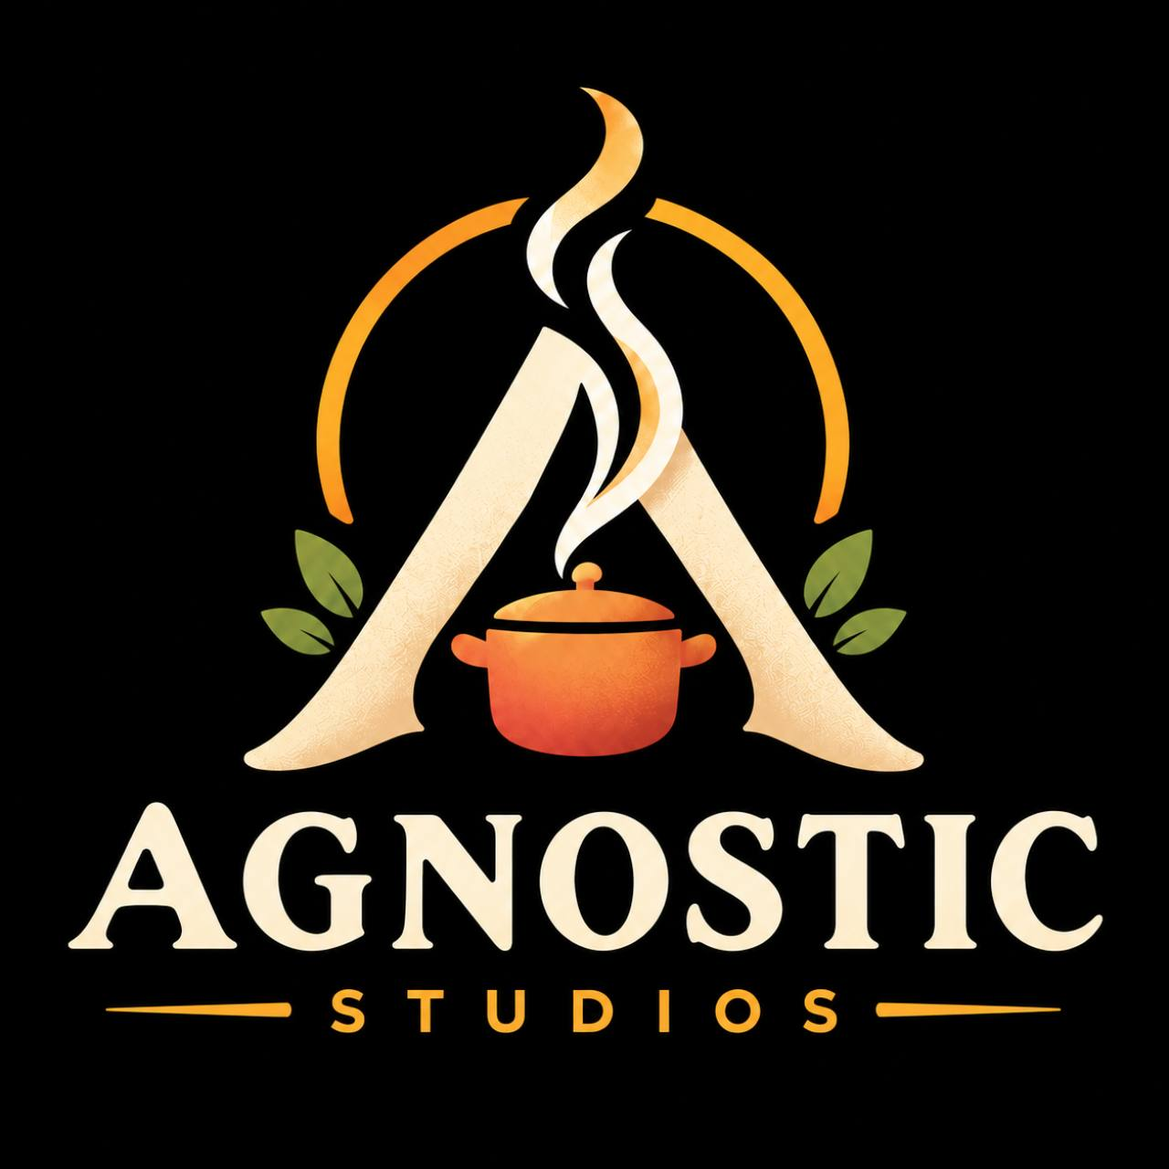
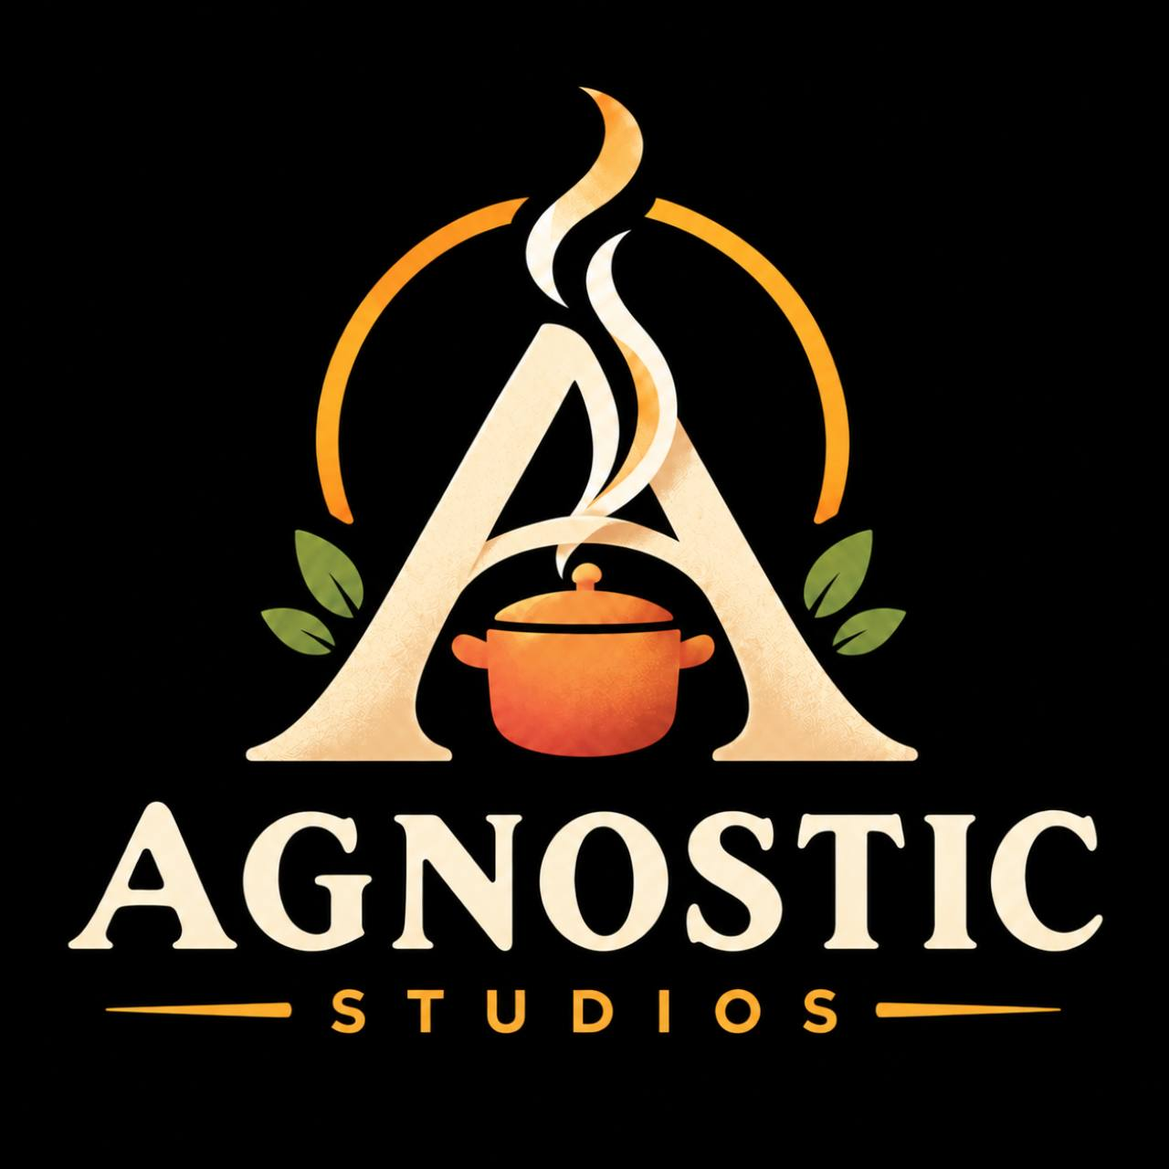
Let seated customers finish after closing and reuse cleared tables promptly

diff --git a/Assets/Tests/PlayMode/RestaurantDayTests.cs b/Assets/Tests/PlayMode/RestaurantDayTests.cs
@@ -40,6 +40,74 @@ namespace ThrownTogether.Tests
             var fryer=stations.OfType<ProcessingStation>().Single(s=>!s.requiresAttendance);Use(fryer);fryer.Advance(5);Use(fryer);
             var counter=stations.OfType<CounterStation>().First(s=>s.GetType()==typeof(CounterStation));Use(counter);Use(stations.OfType<SourceStation>().Single(s=>s.plates));Use(counter);Use(counter);return chef.Hands.Item;
         }
+
+        void FinishDay()
+        {
+            for(int i=0;i<8000 && !day.Closed;i++)
+            {
+                foreach(var table in day.Tables)table.order.Advance(.1f);
+                day.Advance(.1f);
+            }
+            Assert.That(day.Closed,Is.True,"Service should settle once the final guest reaches the street exit");
+            Assert.That(day.CustomersRemaining,Is.Zero);
+        }
+        [UnityTest] public IEnumerator ClosingKeepsExistingOrdersPlayableUntilTheLastStreetDeparture()
+        {
+            var originalSettings=day.Settings;
+            float duration=originalSettings.durationSeconds;
+            try
+            {
+                day.Advance(18);var table=day.Tables.First(t=>t.WaitingForMeal);
+                originalSettings.durationSeconds=day.Elapsed+1;
+                int arrived=day.CustomersArrived;day.Advance(2);
+                Assert.That(day.AdmissionsClosed,Is.True);Assert.That(day.Closed,Is.False);Assert.That(day.Paid,Is.False);
+                var dish=CookDish(table.order.recipe);Use(table);
+                Assert.That(day.Served,Is.EqualTo(1),"A matching meal must still be accepted after closing");
+                Assert.That(table.order.tableSlot.Item,Is.SameAs(dish));
+                day.Advance(3);Assert.That(day.Closed,Is.False,"An eating customer prevents settlement");
+                table.order.Advance(day.Settings.eatingSeconds);
+                day.Advance(2);
+                Assert.That(table.Occupied,Is.False);Assert.That(day.CustomersRemaining,Is.GreaterThan(0));
+                Assert.That(day.Closed,Is.False,"Walking out of the dining room is not the end of the day");
+                FinishDay();Assert.That(day.Paid,Is.True);Assert.That(day.CustomersArrived,Is.EqualTo(arrived));
+                int cash=RestaurantAccounts.Current.Data.cash;day.Advance(100);day.RetryPayment();
+                Assert.That(RestaurantAccounts.Current.Data.cash,Is.EqualTo(cash));
+            }
+            finally{originalSettings.durationSeconds=duration;}
+            yield return null;LogAssert.NoUnexpectedReceived();
+        }
+        [UnityTest] public IEnumerator ClearedSeatIsReusedBeforePreviousGuestReachesTheDoor()
+        {
+            day.Advance(60);Assert.That(day.WaitingOutside,Is.GreaterThan(0));
+            var table=day.Tables.First(t=>t.WaitingForMeal);
+            var dish=CookDish(table.order.recipe);Use(table);table.order.Advance(day.Settings.eatingSeconds);
+            day.Advance(.1f);Assert.That(table.Leaving,Is.True);
+            Use(table);Assert.That(chef.Hands.Item,Is.SameAs(dish));
+            var departing=day.GetComponentsInChildren<DiningWalker>().First(w=>w.gameObject.activeSelf && Vector3.Distance(w.transform.position,table.transform.position)<3);
+            for(int i=0;i<40 && !table.Arriving;i++)day.Advance(.1f);
+            Assert.That(table.Arriving,Is.True,"Queue should reserve the cleared seat immediately after its former diner reaches the aisle");
+            Assert.That(departing.transform.position.z,Is.GreaterThan(day.Settings.entrance.z+1),"Former diner is still inside");
+            day.Advance(12);Assert.That(table.WaitingForMeal,Is.True,"Former diner leaving must not reset the replacement order");
+            Assert.That(table.order.recipe,Is.Not.Null);yield return null;LogAssert.NoUnexpectedReceived();
+        }
+        [UnityTest] public IEnumerator ClosingTurnsAwayUnseatedArrivalsAndFirstDayStartsAtTen()
+        {
+            Assert.That(day.TargetCustomers,Is.EqualTo(10));
+            Assert.That(day.Settings.CustomersForDay(2),Is.EqualTo(12));
+            float duration=day.Settings.durationSeconds;
+            try
+            {
+                day.Advance(2);Assert.That(day.CustomersRemaining,Is.EqualTo(1));
+                day.Settings.durationSeconds=day.Elapsed+1;day.Advance(2);
+                Assert.That(day.AdmissionsClosed,Is.True);Assert.That(day.Tables.All(t=>t.Clean),Is.True);
+                Assert.That(day.Closed,Is.False);FinishDay();
+                Assert.That(day.CustomersArrived,Is.EqualTo(1));Assert.That(day.Served,Is.Zero);
+                Assert.That(day.LostCustomers,Is.Zero,"Closing the door is not a patience penalty");
+            }
+            finally{day.Settings.durationSeconds=duration;}
+            yield return null;
+        }
+
         void WalkTo(float x,float z)
         {
             var target=new Vector3(x,0,z);
@@ -58,8 +126,8 @@ namespace ThrownTogether.Tests
             var sun=Object.FindObjectsByType<Light>().First(l=>l.gameObject.scene==scene && l.type==LightType.Directional);
             float intensity=sun.intensity;var color=sun.color;
             day.Advance(18);CookFirstDish();Use(day.Tables.First(t=>t.WaitingForMeal));Assert.That(day.Served,Is.EqualTo(1));
-            CaptureTransition(hud,"service");day.Advance(300);presentation.AdvancePresentation(0);
-            Assert.That(day.Clock,Is.EqualTo("10:00 PM"));Assert.That(day.Paid,Is.True);
+            CaptureTransition(hud,"service");FinishDay();presentation.AdvancePresentation(0);
+            Assert.That(day.AdmissionsClosed,Is.True);Assert.That(day.Paid,Is.True);
             Assert.That(presentation.Current,Is.EqualTo(DayPresentation.Phase.Closing));Assert.That(Time.timeScale,Is.Zero);
             presentation.AdvancePresentation(1.25f);
             Assert.That(hud.gameplayCamera.orthographicSize,Is.EqualTo(size*1.0625f).Within(.001f));
@@ -149,13 +217,13 @@ namespace ThrownTogether.Tests
             Use(stations.OfType<DishReturnStation>().Single());Use(stations.OfType<DishReturnStation>().Single());
             var sink=stations.OfType<WashingStation>().Single();Use(sink);sink.Advance(3);Use(sink);Use(stations.OfType<SourceStation>().Single(s=>s.plates));
             Assert.That(stations.OfType<SourceStation>().Single(s=>s.plates).CleanPlatesRemaining,Is.EqualTo(5));
-            day.Advance(300);Assert.That(day.Clock,Is.EqualTo("10:00 PM"));Assert.That(day.Paid,Is.True);int cash=RestaurantAccounts.Current.Data.cash;day.Advance(300);day.RetryPayment();Assert.That(RestaurantAccounts.Current.Data.cash,Is.EqualTo(cash));
+            FinishDay();Assert.That(day.AdmissionsClosed,Is.True);Assert.That(day.Paid,Is.True);int cash=RestaurantAccounts.Current.Data.cash;day.Advance(300);day.RetryPayment();Assert.That(RestaurantAccounts.Current.Data.cash,Is.EqualTo(cash));
             LogAssert.NoUnexpectedReceived();yield return null;
         }
         [UnityTest] public IEnumerator UnservedGuestsAndOutsideQueueEventuallyLeave()
         {
             day.Advance(150);Assert.That(day.LostCustomers,Is.GreaterThan(0));Assert.That(day.Served,Is.Zero);
-            day.Advance(150);Assert.That(day.Closed,Is.True);Assert.That(RestaurantAccounts.Current.Data.cash,Is.Zero);Assert.That(day.WaitingOutside,Is.LessThanOrEqualTo(3));yield return null;
+            FinishDay();Assert.That(day.Closed,Is.True);Assert.That(RestaurantAccounts.Current.Data.cash,Is.Zero);Assert.That(day.WaitingOutside,Is.LessThanOrEqualTo(3));yield return null;
         }
         [UnityTest] public IEnumerator ServerChainsQueuedMealsWithoutReturningHome()
         {
@@ -234,7 +302,7 @@ namespace ThrownTogether.Tests
             Assert.That(day.DayNumber,Is.EqualTo(2));Assert.That(account.Data.cash,Is.EqualTo(470));
             Assert.That(day.GetComponent<DiningServer>(),Is.Not.Null);
             Assert.That(day.GetComponent<KitchenDishwasher>(),Is.Not.Null);
-            Assert.That(day.GetComponent<DiningBusser>(),Is.Not.Null);Assert.That(day.Tables.Length,Is.EqualTo(4));Assert.That(day.TargetCustomers,Is.EqualTo(14));
+            Assert.That(day.GetComponent<DiningBusser>(),Is.Not.Null);Assert.That(day.Tables.Length,Is.EqualTo(4));Assert.That(day.TargetCustomers,Is.EqualTo(12));
             foreach(var table in day.Tables)
             {var approach=day.TableApproach(table);Assert.That(KitchenStaffRoute.Clear(approach),Is.True);var path=day.DiningRoute(new Vector3(day.Settings.diningAisleX,0,1),approach);
                 var previous=new Vector3(day.Settings.diningAisleX,0,1);foreach(var point in path){for(float t=0;t<=1;t+=.02f)Assert.That(KitchenStaffRoute.Clear(Vector3.Lerp(previous,point,t)),Is.True,"Staff dining corridor");previous=point;}}
@@ -252,7 +320,7 @@ namespace ThrownTogether.Tests
             Assert.That(chef.Hands.Item,Is.SameAs(plate));Assert.That(plate.Payload.dirty,Is.True);Assert.That(plate.Payload.IngredientCount,Is.Zero);Assert.That(day.WasteFees,Is.EqualTo(2));
             Assert.That(bin.Interact(chef),Is.False);Assert.That(day.WasteFees,Is.EqualTo(2));
             var sink=stations.OfType<WashingStation>().Single();Use(sink);sink.Advance(3);Use(sink);Assert.That(chef.Hands.Item,Is.SameAs(plate));Assert.That(bin.Interact(chef),Is.False);Use(stock);Assert.That(stock.CleanPlatesRemaining,Is.EqualTo(5));
-            day.RecordMeal(day.GetComponent<RestaurantShift>().definition.orders[0],0);int expected=day.BaseIncome+day.Bonuses-2;day.Advance(300);Assert.That(RestaurantAccounts.Current.Data.cash,Is.EqualTo(expected));day.RetryPayment();Assert.That(RestaurantAccounts.Current.Data.cash,Is.EqualTo(expected));
+            day.RecordMeal(day.GetComponent<RestaurantShift>().definition.orders[0],0);int expected=day.BaseIncome+day.Bonuses-2;FinishDay();Assert.That(RestaurantAccounts.Current.Data.cash,Is.EqualTo(expected));day.RetryPayment();Assert.That(RestaurantAccounts.Current.Data.cash,Is.EqualTo(expected));
             Use(potato);Assert.That(bin.Interact(chef),Is.False,"No uncharged disposal after settlement");yield return null;LogAssert.NoUnexpectedReceived();
         }
         [UnityTest] public IEnumerator DiningStaffIdleRightOfEntranceAndFetchWithoutTeleporting()

diff --git a/Assets/Scripts/RestaurantDay.cs b/Assets/Scripts/RestaurantDay.cs
@@ -9,6 +9,9 @@ namespace ThrownTogether
         public DiningTable[] Tables {get;private set;}
         public float Elapsed {get;private set;}
         public bool Closed {get;private set;}
+        public bool AdmissionsClosed=>Elapsed>=Settings.durationSeconds;
+        public int CustomersRemaining=>guests.Count;
+        public int CustomersArrived=>spawned;
         public bool Paid {get;private set;}
         public int Served {get;private set;}
         public int BaseIncome {get;private set;}
@@ -35,7 +38,7 @@ namespace ThrownTogether
         public int TargetCustomers=>Settings.CustomersForDay(ServiceDayNumber);
         public int WaitingOutside=>guests.Count(g=>g.phase==0);
         public float OldestWait=>guests.Where(g=>g.phase==0).Select(g=>Elapsed-g.arrived).DefaultIfEmpty(0).Max();
-        public string Clock {get {int m=660+Mathf.FloorToInt(Mathf.Clamp01(Elapsed/Settings.durationSeconds)*660);return ((m/60+11)%12+1)+":"+(m%60).ToString("00")+(m<720?" AM":" PM");}}
+        public string Clock {get {int m=660+Mathf.FloorToInt(Mathf.Max(0,Elapsed/Settings.durationSeconds)*660);return ((m/60+11)%12+1)+":"+(m%60).ToString("00")+(m%1440<720?" AM":" PM");}}
         readonly List<Guest> guests=new List<Guest>();
         sealed class Guest {public DiningWalker walker;public DiningTable table;public RecipeDefinition recipe;public float arrived;public int phase,look;}
         RestaurantShift shift;int spawned;float nextArrival;DiningServer server;KitchenDishwasher dishwasher;DiningBusser busser;
@@ -102,11 +105,15 @@ namespace ThrownTogether
         }
         void Tick(float dt)
         {
-            Elapsed=Mathf.Min(Settings.durationSeconds,Elapsed+dt);
-            if(Elapsed>=Settings.durationSeconds){Closed=true;RetryPayment();return;}
-            while(spawned<TargetCustomers && Elapsed>=nextArrival){Spawn();nextArrival+=Settings.IntervalForDay(ServiceDayNumber);}
+            Elapsed+=dt;
+            while(!AdmissionsClosed && spawned<TargetCustomers && Elapsed>=nextArrival){Spawn();nextArrival+=Settings.IntervalForDay(ServiceDayNumber);}
             foreach(var guest in guests.ToArray())
             {
+                // Guests already admitted may finish; unseated arrivals go home at closing.
+                if(AdmissionsClosed && (guest.phase==0 || guest.phase==4))
+                {
+                    guest.phase=5;guest.walker.Go(new Vector3(guest.walker.transform.position.x,0,Settings.sidewalkExit.z),Settings.sidewalkExit);
+                }
                 if(guest.phase==0)
                 {
                     var table=Tables.FirstOrDefault(t=>t.Clean);
@@ -118,25 +125,33 @@ namespace ThrownTogether
                     else if(Elapsed-guest.arrived>=Settings.outsidePatience)
                     {LostCustomers++;LastLostAt=Elapsed;guest.phase=5;guest.walker.name="Customer left â€” waited too long";guest.walker.Go(new Vector3(Settings.entrance.x,0,Settings.sidewalkExit.z),Settings.sidewalkExit);}
                 }
-                if(guest.phase==1 || guest.phase==3 || guest.phase==4 || guest.phase==5)
+                if(guest.phase==1 || guest.phase==3 || guest.phase==4 || guest.phase==5 || guest.phase==6)
                 {
                     guest.walker.Advance(dt,Settings.walkingSpeed);
                     if(guest.walker.Arrived)
                     {
                         if(guest.phase==1){guest.phase=2;guest.walker.gameObject.SetActive(false);guest.table.Seat(guest.recipe,guest.look);}
                         else if(guest.phase==4){guest.phase=0;guest.arrived=Elapsed;}
-                        else if(guest.phase==3){guest.table.Depart();guest.phase=5;guest.walker.Go(new Vector3(Settings.entrance.x,0,Settings.sidewalkExit.z),Settings.sidewalkExit);}
+                        else if(guest.phase==6)
+                        {
+                            // Release the seat at the aisle, not at the front door. Detach ownership
+                            // so this guest can never reset the next diner's order while walking out.
+                            guest.table.Depart();guest.table=null;guest.phase=3;
+                            guest.walker.Go(new Vector3(guest.walker.transform.position.x,0,-5),new Vector3(Settings.entrance.x,0,-5),Settings.entrance);
+                        }
+                        else if(guest.phase==3){guest.phase=5;guest.walker.Go(new Vector3(Settings.entrance.x,0,Settings.sidewalkExit.z),Settings.sidewalkExit);}
                         else{guests.Remove(guest);Destroy(guest.walker.gameObject);}
                     }
                 }
                 else if(guest.phase==2 && (guest.table.order.Phase==OrderPhase.Dirty || guest.table.WaitingForMeal && guest.table.PatienceRemaining<=0))
                 {
                     if(guest.table.WaitingForMeal){LostCustomers++;LastLostAt=Elapsed;guest.walker.name="Customer left â€” not served";}
-                    guest.phase=3;guest.table.BeginDeparture();guest.walker.gameObject.SetActive(true);
-                    guest.walker.Go(new Vector3(TableApproach(guest.table).x,0,guest.walker.transform.position.z),new Vector3(TableApproach(guest.table).x,0,-5),new Vector3(Settings.entrance.x,0,-5),Settings.entrance);
+                    guest.phase=6;guest.table.BeginDeparture();guest.walker.gameObject.SetActive(true);
+                    guest.walker.Go(new Vector3(TableApproach(guest.table).x,0,guest.walker.transform.position.z));
                 }
             }
             server?.Advance(dt);dishwasher?.Advance(dt);busser?.Advance(dt);
+            if(AdmissionsClosed && guests.Count==0){Closed=true;RetryPayment();}
         }
         public void RecordMeal(RecipeDefinition recipe,float waiting)
         {

diff --git a/Assets/Scripts/RestaurantMenu.cs b/Assets/Scripts/RestaurantMenu.cs
@@ -435,7 +435,7 @@ namespace ThrownTogether
             var style=buttonStyle; style.fontSize=Mathf.RoundToInt(21*Display.TextScale); var text=textStyle;
             text.normal.textColor=Color.white; style.normal.textColor=Color.white; style.hover.textColor=Color.white; style.active.textColor=Color.white;
             GUI.Label(new Rect(260,25,760,48),Page=="Title" ? "THROWN TOGETHER" : Page=="Main" ? "PAUSED" : Page=="Levels" ? (practiceLevel ? "CHOOSE A PRACTICE KITCHEN":"CHOOSE YOUR LEVEL") : Page=="Recipes" ? "RECIPE BOOK" : Page=="Restaurant" ? (hud.shift?.Day?.Closed==true?"DAY "+hud.shift.Day.DayNumber+" COMPLETE":"RESTAURANT SETUP") : Page=="Shop" ? "APPLIANCES, COUNTERS & DISHES" : Page=="Today's Menu" ? "DAY "+RestaurantAccounts.Current.Data.nextDay+" — CHOOSE MENU" : Page.ToUpperInvariant(),text);
-            GUI.Label(Page=="Restaurant"?new Rect(180,73,920,60):new Rect(260,73,760,60),Page=="Reset career" ? "Erase all career days, money, purchases, hires, menu choices and saved kitchen layouts? Settings and chef appearance stay." : Page=="Confirm" ? confirmation : Page=="Today's Menu" ? DailyMenu.Resolve(RestaurantAccounts.Current).Length+" selected • Minimum 3 • A: toggle dish\nServe 4 different menu dishes: +5% meal revenue (max $15)" : Page=="Restaurant" && hud.shift?.Day?.Closed==true ? "10:00 PM • "+hud.shift.Day.Served+" served / "+hud.shift.Day.LostCustomers+" lost • Earned $"+hud.shift.Day.NetIncome+" (speed $"+hud.shift.Day.Bonuses+", variety $"+hud.shift.Day.VarietyBonus+", waste $"+hud.shift.Day.WasteFees+")\nAvailable $"+RestaurantAccounts.Current.Data.cash+" • B returns here" : IsFrontEnd ? "D-pad / stick: navigate • A: select • B: back\nChoose a kitchen and start cooking." : BetweenDays?"Available $"+RestaurantAccounts.Current.Data.cash+" • D-pad: navigate • A: select • B: Day Complete":"Paused • D-pad / stick: navigate • A: select • B: back\nY / Escape: close • Xbox Menu belongs to Edge",text);
+            GUI.Label(Page=="Restaurant"?new Rect(180,73,920,60):new Rect(260,73,760,60),Page=="Reset career" ? "Erase all career days, money, purchases, hires, menu choices and saved kitchen layouts? Settings and chef appearance stay." : Page=="Confirm" ? confirmation : Page=="Today's Menu" ? DailyMenu.Resolve(RestaurantAccounts.Current).Length+" selected • Minimum 3 • A: toggle dish\nServe 4 different menu dishes: +5% meal revenue (max $15)" : Page=="Restaurant" && hud.shift?.Day?.Closed==true ? hud.shift.Day.Clock+" • "+hud.shift.Day.Served+" served / "+hud.shift.Day.LostCustomers+" lost • Earned $"+hud.shift.Day.NetIncome+" (speed $"+hud.shift.Day.Bonuses+", variety $"+hud.shift.Day.VarietyBonus+", waste $"+hud.shift.Day.WasteFees+")\nAvailable $"+RestaurantAccounts.Current.Data.cash+" • B returns here" : IsFrontEnd ? "D-pad / stick: navigate • A: select • B: back\nChoose a kitchen and start cooking." : BetweenDays?"Available $"+RestaurantAccounts.Current.Data.cash+" • D-pad: navigate • A: select • B: Day Complete":"Paused • D-pad / stick: navigate • A: select • B: back\nY / Escape: close • Xbox Menu belongs to Edge",text);
             int visible=Page=="Recipes"?6:Page=="Shop"?7:(Page=="Restaurant" || Page=="Today's Menu")?8:9;
             bool menu=Page=="Today's Menu";
             int begin=menu?1:0, end=menu?rows.Count-1:rows.Count;

diff --git a/Assets/Tests/PlayMode/MenuExpansionTests.cs b/Assets/Tests/PlayMode/MenuExpansionTests.cs
@@ -55,7 +55,7 @@ namespace ThrownTogether.Tests
             BaseMenu();Assert.That(menu.StartSelectedMenu(),Is.True);yield return null;yield return null;
             Assert.That(day.AwaitingMenu,Is.False);Assert.That(day.Menu.Length,Is.EqualTo(3));
             day.Advance(18);Assert.That(day.Tables.Where(t=>t.order.Active).All(t=>day.Menu.Contains(t.order.recipe)),Is.True);
-            foreach(var r in day.Menu)day.RecordMeal(r,0);day.Advance(300);Assert.That(day.VarietyBonus,Is.Zero);Assert.That(day.Paid,Is.True);
+            foreach(var r in day.Menu)day.RecordMeal(r,0);day.Advance(600);Assert.That(day.VarietyBonus,Is.Zero);Assert.That(day.Paid,Is.True);
             var a=RestaurantAccounts.Current;int funding=a.StartDay();Assert.That(a.Settle(funding,300,0),Is.True);
             var offer=day.Settings.purchases.Single(p=>p.id=="grill");Assert.That(a.Buy(offer.id,offer.cost),Is.True);
             var chosen=DailyMenu.Catalog.Where(r=>r.Unlocked(a)).Take(4).ToArray();Assert.That(a.SetMenu(chosen.Select(r=>r.id).ToArray()),Is.True);
@@ -66,7 +66,7 @@ namespace ThrownTogether.Tests
             Assert.That(RestaurantAccounts.Current.SetMenu(new string[0]),Is.True);
             for(int i=0;i<8;i++){day.Advance(8);Assert.That(day.Tables.Where(t=>t.order.Active).All(t=>chosen.Contains(t.order.recipe)),Is.True);}
             foreach(var r in chosen)day.RecordMeal(r,0);int income=day.BaseIncome,bonus=day.Bonuses,cash=RestaurantAccounts.Current.Data.cash;
-            day.Advance(300);Assert.That(day.VarietyBonus,Is.EqualTo(income/20));Assert.That(RestaurantAccounts.Current.Data.cash,Is.EqualTo(cash+income+bonus+income/20));
+            day.Advance(600);Assert.That(day.VarietyBonus,Is.EqualTo(income/20));Assert.That(RestaurantAccounts.Current.Data.cash,Is.EqualTo(cash+income+bonus+income/20));
             day.RetryPayment();Assert.That(RestaurantAccounts.Current.Data.cash,Is.EqualTo(cash+income+bonus+income/20));LogAssert.NoUnexpectedReceived();
         }
         [UnityTest] public IEnumerator AllThirteenRecipesCookPlateAndServeWithRealStationsAndFinitePlates()

diff --git a/Assets/Scripts/RestaurantHud.cs b/Assets/Scripts/RestaurantHud.cs
@@ -61,7 +61,7 @@ namespace ThrownTogether
             if(day!=null)
             {
                 Panel(new Rect(340,12,690,48));
-                GUI.Label(new Rect(350,15,670,42),"Day "+day.ServiceDayNumber+" | Bank $"+RestaurantAccounts.Current.Data.cash+" | Today $"+day.NetIncome+" | Outside "+day.WaitingOutside+" ("+Mathf.CeilToInt(Mathf.Max(0,day.Settings.outsidePatience-day.OldestWait))+"s) | Left "+day.LostCustomers,small);
+                GUI.Label(new Rect(350,15,670,42),"Day "+day.ServiceDayNumber+" | Bank $"+RestaurantAccounts.Current.Data.cash+" | Today $"+day.NetIncome+(day.AdmissionsClosed?" | Closing: "+day.CustomersRemaining+" leaving / finishing":" | Outside "+day.WaitingOutside+" ("+Mathf.CeilToInt(Mathf.Max(0,day.Settings.outsidePatience-day.OldestWait))+"s)")+" | Left "+day.LostCustomers,small);
                 if(day.Elapsed-day.LastWasteAt<2){Panel(new Rect(490,94,300,30));GUI.Label(new Rect(490,94,300,30),"Food discarded: $"+day.Settings.wasteCost+" waste",small);}
                 if(day.Elapsed-day.LastLostAt<3){Panel(new Rect(390,66,500,28));GUI.Label(new Rect(395,66,490,28),"Customer left unhappy — waited too long",small);}
             }

diff --git a/Assets/Scripts/DayServiceDefinition.cs b/Assets/Scripts/DayServiceDefinition.cs
@@ -5,7 +5,7 @@ namespace ThrownTogether
     public sealed class DayServiceDefinition : ContentDefinition
     {
         public float durationSeconds=300;
-        public int arrivals=12;
+        public int arrivals=10;
         public int wasteCost=1;
         public Vector3 serverIdle=new Vector3(10.2f,0,-5.1f), busserIdle=new Vector3(11.5f,0,-5.1f);
         public int additionalCustomersPerDay=2;

diff --git a/docs/DEVELOPMENT_NOTES.md b/docs/DEVELOPMENT_NOTES.md
@@ -528,3 +528,8 @@ Final verification: source **081b15a3bf05a7278ba37142b2d0b306f74748cc**, Pages *
 Order icon bounds are 25% larger, with transparent padding trimmed in the order-only draw path and a subtle dark silhouette outline. Source bakes remain 192px: their existing detail is sufficient at the new display size, so no upscaled/redundant texture assets were added. The timer stays underneath; recipe-book/ingredient icons and immediate disappearance after service are unchanged. No large opaque bubble is restored. Live review and automated/build verification follow.
 
 0.17.1 verification: **64 EditMode + 83 PlayMode + 14 Web checks passed (161 total)**. Web output **63,448,305 bytes**, tested source **03eb67a8ad26f346adcaa614361043b25d8ac1e6**. Canonical Unity MCP reviewed two- and four-table icon spacing and verified `Delivered=True, iconVisible=False`. Final Unity Console had no errors/warnings. Review used memory-only account state and ended without saving scene changes. Existing 192px icon alpha bounds fit the shared central crop without clipping any of the 13 dishes. Concurrent roadmap commit d54db8e was merged without modifying tested game code/assets; publication retained the original tested build ID. TV-distance readability requires Kyle's physical review.
+
+## 0.17.2 — Finish service after closing
+10 PM closes admissions instead of forcing settlement. Already admitted diners finish under the existing seated patience rules; unseated sidewalk/door customers turn around without a patience penalty. Cooking, serving and staff remain active until every customer reaches the street exit. The clock continues at the existing game-time rate, and the HUD shows closing status; payment and the night/management transition occur only after the final departure.
+A departing diner releases table ownership when reaching the adjacent aisle. Cleared tables immediately become available to the door queue; the old walker is detached from the table so it cannot reset a replacement order on reaching the entrance.
+Day 1 starts with 10 arrivals, retaining +2 per subsequent day. Replaced Agnostic startup art with Kyle's supplied crossbar-A logo, retaining its importer and intro timing. Automated/live/build verification pending; TV/controller review remains with Kyle.
